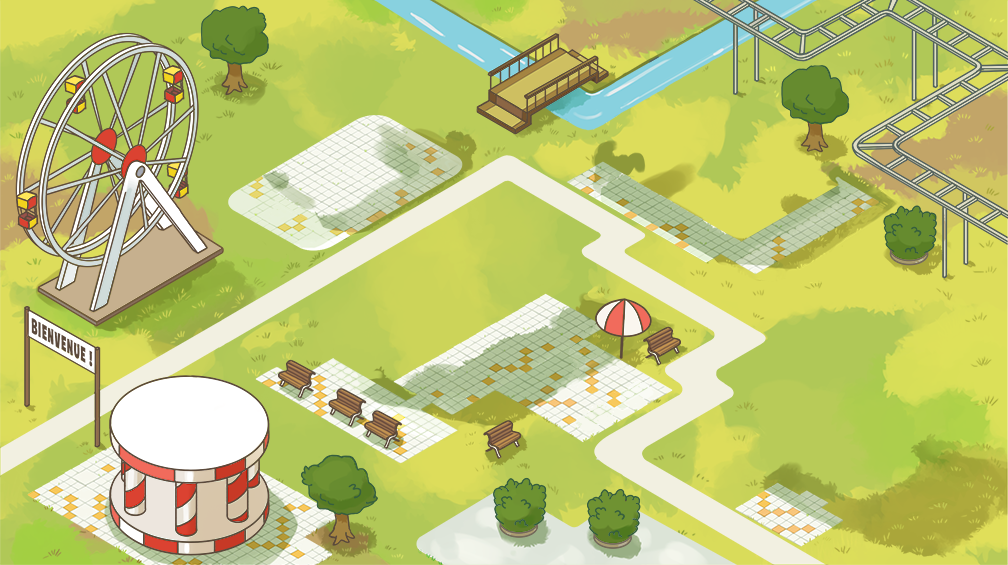
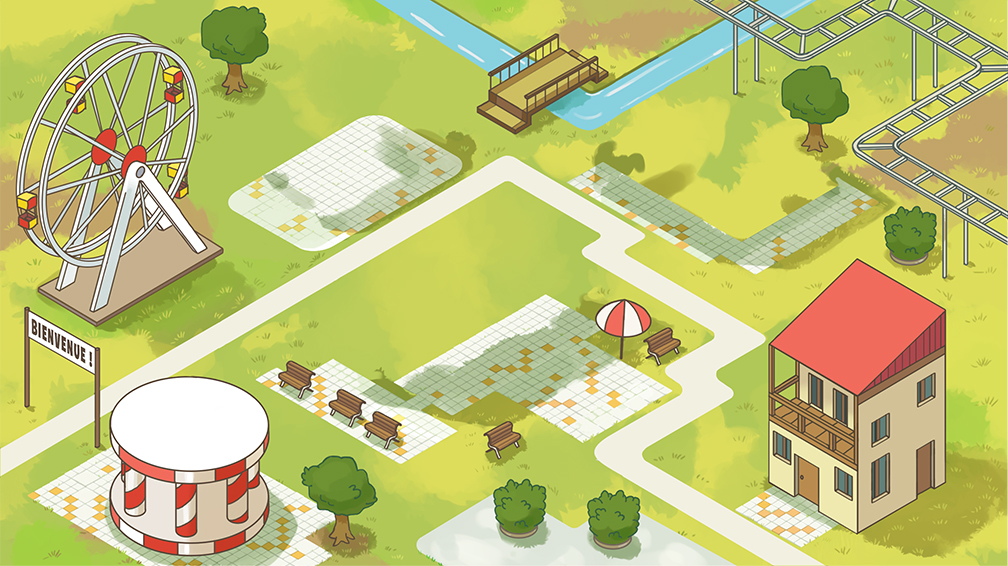
Ajoute le batiment question dans l'image de fond de l'accueil.

diff --git a/src/situations/accueil/styles/acces_situation.scss b/src/situations/accueil/styles/acces_situation.scss
@@ -30,10 +30,10 @@
   }
 
   &.questions {
-    width: 571px;
-    height: 270px;
-    left: 570px;
-    top: 263px;
+    width: 578px;
+    height: 276px;
+    left: 568px;
+    top: 258px;
   }
 
   &.desactivee {
